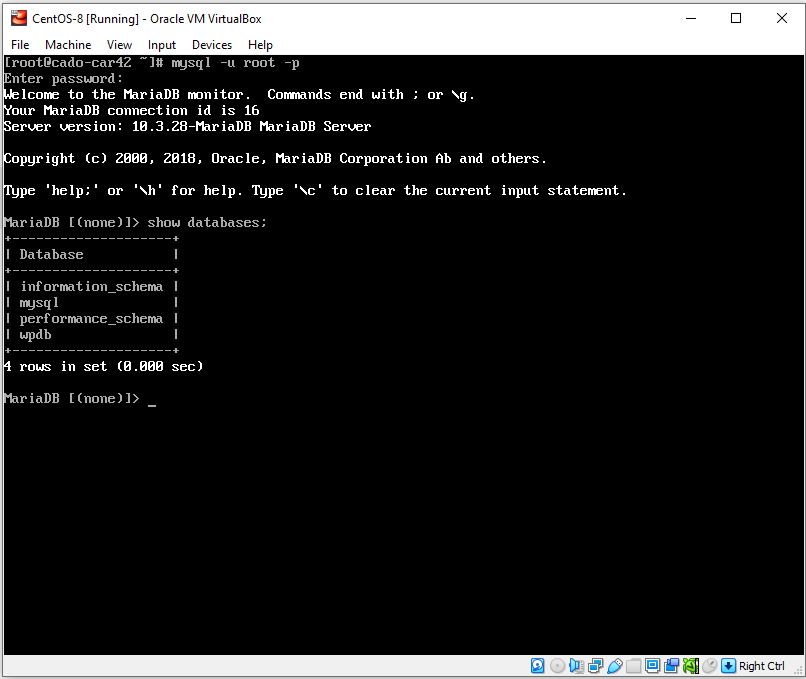
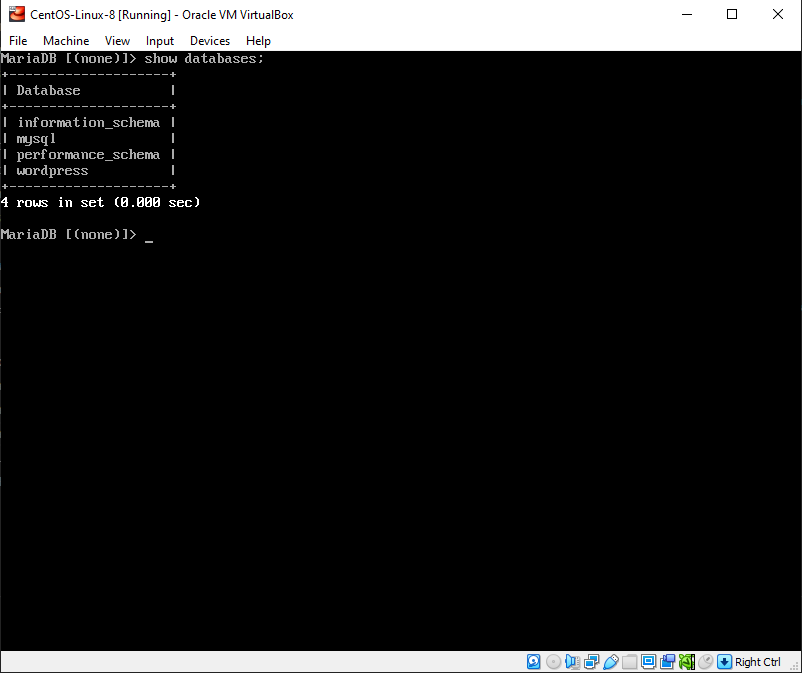
Documentation

Changed region(s): [[0.0, 0.0, 1.0, 1.0], [0.5299, 0.1248, 0.5923, 0.156]]

diff --git a/Bonus-en.md b/Bonus-en.md
@@ -31,7 +31,7 @@
 
 **Wordpress** is a Content Manager System (CMS). In other words, it's an application that allows you to create blogs and websites, and was originally designed to be a simple, user-friendly platform so that anyone, anywhere, could create a functional website.
 
-In this project, we will have to set up a Wordpress website so that our server works as host to it. We will need to set up `http`, `Database` and `PHP` services, and make sure the website or blog is completely functional. 
+In this project, we will have to set up a Wordpress website so that our server works as host to it. We will need to set up `http` , `Database` and `PHP` services, and make sure the website or blog is completely functional. 
 
 We will also need to deal with our firewall and MAC systems in order to allow communication through the correct ports. But first, let`s understand the services we will need to install beforehand. 
 
@@ -146,9 +146,9 @@ Now that you already have a database management system intalled, you will need t
 You will be asked to enter your DB password. Then, you can create de Database for your Wordpress site. The final result should look like [this](screenshots/45.png). To do so, use the following comands on the MariaDB terminal:
 
 ```txt
-MariaDB [(none)]> CREATE DATABASE wpdb;
-MariaDB [(none)]> CREATE USER 'wpdb-cado-car'@'cado-car42' IDENTIFIED BY 'LaD0lceVita';
-MariaDB [(none)]> GRANT ALL ON wpdb.* TO 'wpdb-cado-car'@'cado-car42' IDENTIFIED BY 'LaD0lceVita' WITH GRANT OPTION;
+MariaDB [(none)]> CREATE DATABASE wordpress;
+MariaDB [(none)]> CREATE USER 'admin'@'cado-car42' IDENTIFIED BY 'WPadm1n';
+MariaDB [(none)]> GRANT ALL ON wordpress.* TO 'admin'@'cado-car42' IDENTIFIED BY 'WPadm1n' WITH GRANT OPTION;
 FLUSH PRIVILEGES;
 EXIT;
 ```
@@ -163,7 +163,7 @@ EXIT;
 
 > If you're using `CentOS`, you will need `EPEL` repository again for this one (check <a href="#ltpd">lighttpd</a> for information on how to download it). Also, you will need to download `Remi`, a third-party repository that provides a wide range of PHP versions for RedHat Enterprise Linux - including its most recent one. 
 > ```sh
-> # dnf install -y remi-release
+> # dnf install https://rpms.remirepo.net/enterprise/remi-release-8.rpm
 > ```
 > Confirm its [modules](screenshots/44.png):
 > ```sh
@@ -204,7 +204,17 @@ First, you'll [edit](screenshots/47.png) the PHP-FPM configuration file:
 ```
 Then, you will edit the PHP configuration and uncomment [this](screenshots/48.png) line:
 ```sh
-# vim /etc/php-fpm.d/www.conf
+# vim /etc/php.ini
+```
+
+Next, you need to edit a file called `modules.conf` like [this](screenshots/53.png).
+```sh
+# vim /etc/lighttpd/modules.conf
+```
+
+Then, open a third file called `/etc/lighttpd/conf.d/fastcgi.conf` and edit [these lines](screenshots/54.png).
+```sh
+# vi /etc/lighttpd/conf.d/fastcgi.conf
 ```
 
 > Lastly, if you're using `CentOS` you must make sure that your SELinux is allowing connection to your `http server` and your `database`:
@@ -247,31 +257,34 @@ In Debian:
 
 After that, you can download the latest available release of Wordpress and unzip it:
 ```sh
-# wget http://wordpress.org/latest.tar.gz -P /var/www/html
-# tar -xzvf /var/www/html/latest.tar.gz
-# mv wordpress /var/www/html/wordpress
-# rm /var/www/html/latest.tar.gz
+# wget http://wordpress.org/latest.tar.gz
+# tar -xzvf latest.tar.gz
+# mv wordpress/ /var/www/html
+# rm -rf latest.tar.gz
 ```
 
 Create a Wordpress configuration file from its downloaded sample, and then edit it:
 ```sh
-# cp /var/www/html/wordpress/wp-config-sample.php /var/www/html/wordpress/wp-config.php
-# vim /var/www/html/wordpress/wp-config.php
+# mv /var/www/html/wordpress/wp-config-sample.php /var/www/html/wordpress/wp-config.php
+# vim /var/www/html/wp-config.php
 ```
 
-You must alter the 3 lines that specify the `DB name`, `DB user` and `DB password`, like [this](screenshots/46.png).
+You must alter the 3 lines that specify the `DB name`, `DB user`, `DB password` and `DB host`, like [this](screenshots/46.png).
+
+> In `CentOS`, at the first try, I needed to change the `/wordpress/` folder location from `/var/www/html/` to `/var/www/lighttpd`. Apparently that was the only folder allowed on port 80 to connect remotely. The location of the folder to apply the next steps depend on this port configuration. Modify them appropriately.
 
 Lastly, you must change your wordpress folders permitions:
 
 In CentOS:
 ```sh
-# chown -R lighttpd:lighttpd /var/www/html/wordpress/
-# chmod -R 755 /var/www/html/wordpress/
+# chown -R lighttpd:lighttpd /var/www/html/wordpress
+# chmod -R 755 /var/www/html/wordpress
+# chcon -t httpd_sys_rw_content_t /var/www/html/wordpress -R
 ```
 In Debian:
 ```sh
-# chown -R www-data:www-data /var/www/html/wordpress/
-# chmod -R 755 /var/www/html/wordpress/
+# chown -R www-data:www-data /var/www/html/
+# chmod -R 755 /var/www/html/
 ```
 
 > In `CentOS` you also must set the correct `SELinux` context to the `/var/www/html/wordpress` directory and its contents:
@@ -280,8 +293,20 @@ In Debian:
 > ```
 > For the SELinux changes to take effect, run the following command:
 > ```sh
-> # restorecon -Rv /var/www/wordpress
+> # restorecon -Rv /var/www/html/wordpress
 > ```
+> Then, restart `lighttpd`
+> ```sh
+> # systemctl restart lighttpd
+> ```
+
+At last, we were able to go to my computer's browser and type:
+
+```txt
+http://192.168.15.69/wordpress
+```
+
+The [configuration menu](screenshots/55.png) for Wordpress should appear. 
 
 ---
 <h2 id="ref">
